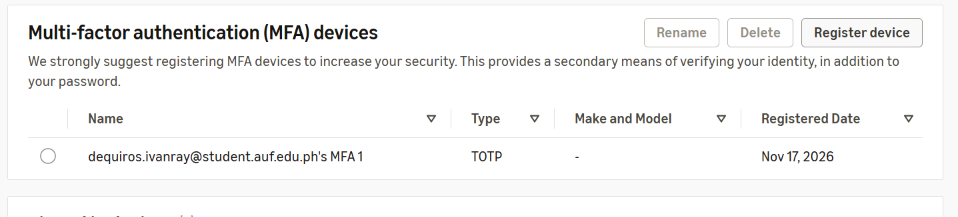
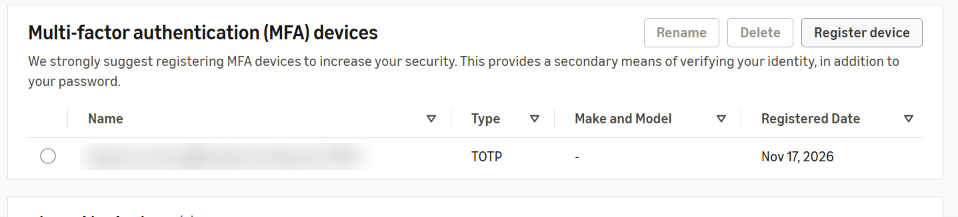
Ivan: blur email in MFA screenshots; week 2 contribution log

Changed region(s): [[0.0908, 0.6912, 0.3935, 0.7742], [0.0303, 0.9954, 0.1514, 1.0], [0.1816, 0.9954, 0.2119, 1.0]]

diff --git a/README.md b/README.md
@@ -60,7 +60,7 @@ Who did what, week by week.
 |---|---|---|---|
 | 1 | 2026-11-15 | Read brief, chose domain, generated starter repo (with Claude, declared) | |
 | 1 | 2026-11-16 | | Reviewed the brief, Robert's guide and the starter repo; got repo access and set up my git identity |
-| 2 | 2026-11-17 | Joined the AWS project as my own member with MFA; subscribed to the alarm emails; took the monitoring and security screenshots (dashboard, alarms, request log, Parameter Store, security group, IAM role, EBS); first Well-Architected pass; updated the website with the live deployment details (with Claude's help, declared) | |
+| 2 | 2026-11-17 | Joined the AWS project as my own member with MFA; subscribed to the alarm emails; took the monitoring and security screenshots (dashboard, alarms, request log, Parameter Store, security group, IAM role, EBS); first Well-Architected pass; updated the website with the live deployment details (with Claude's help, declared) | Created the AWS account (Free plan) with a $30 budget alert and MFA; invited Robert; deployed to Sydney with 01-create-aws.sh; found and fixed 4 deploy problems (region SCP, Free-tier instance type, branding image bug, retired Gemini model); fixed the Gemini 429 quota problem by making the model check hourly (with Claude's help, declared) |
 | 3 | | | |
 | 4 | | | |
 | 5 | | | |
